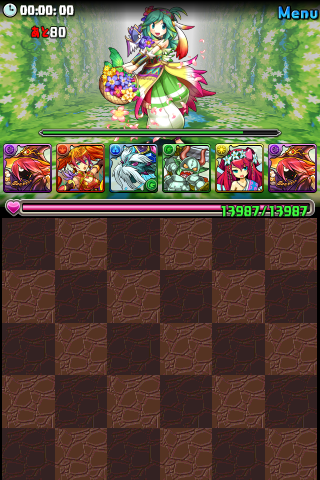
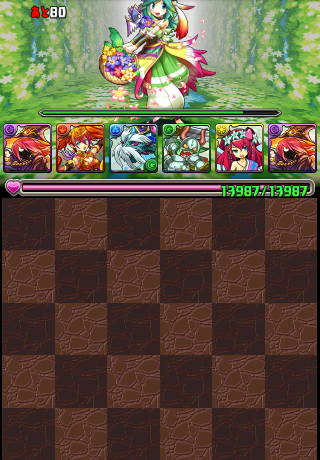
上にずらす

diff --git a/js/interface - コピー.js b/js/interface - コピー.js
@@ -4,7 +4,7 @@ var STAMP_IMG = "img/drops.png";
 var TILE_IMG  = "img/display3.png";
 
 var STAGE_WIDTH  = 320;   // 画面の横幅
-var STAGE_HEIGHT = 480;   // 画面の縦幅
+var STAGE_HEIGHT = 460;   // 画面の縦幅
 var STAMP_SIZE   = 53;    // ドロップの大きさ
 var STAMP_KIND   = 6;     // ドロップの種類
 var STAMP_COL	 = 6;

diff --git a/index.html b/index.html
@@ -20,6 +20,5 @@
 		<input type="text" name="expr" size=15 >
 		<input type="button" value="submit" onclick="checkPassCode(this.form)">
 	</form>
-	<div id="enchant-stage style="width:320px; height:460px;"></div>
 </body>
 </html>
